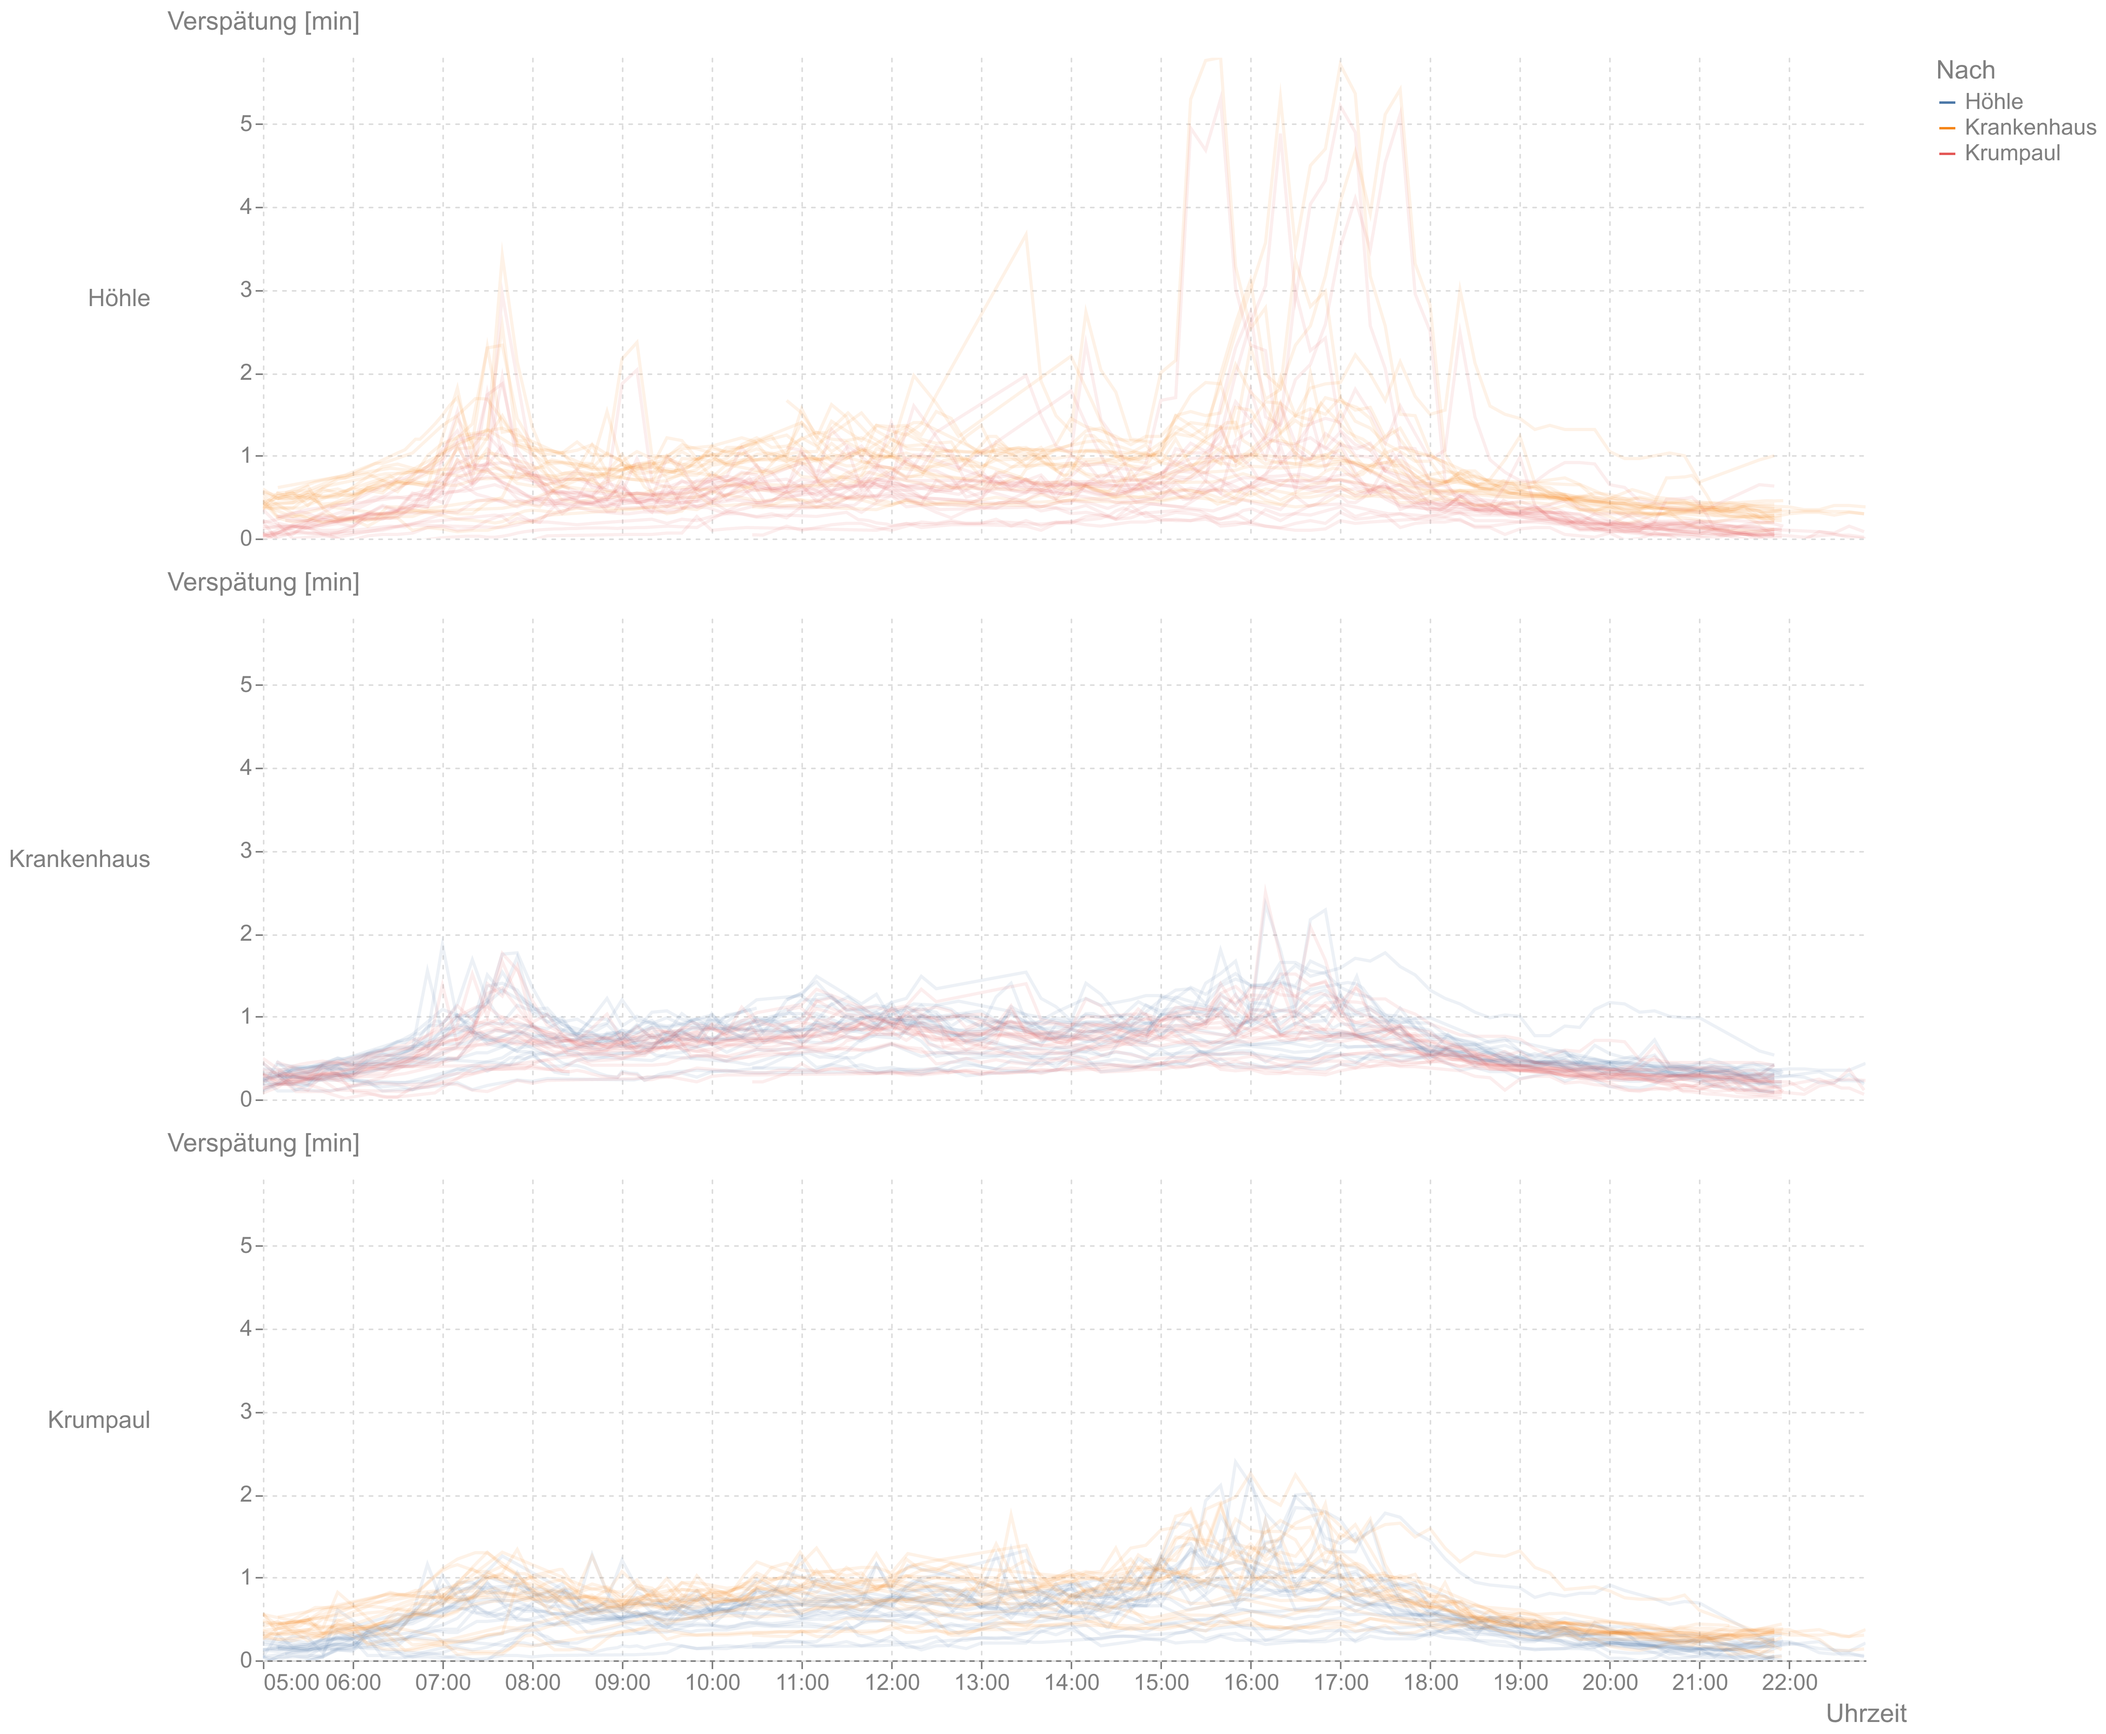
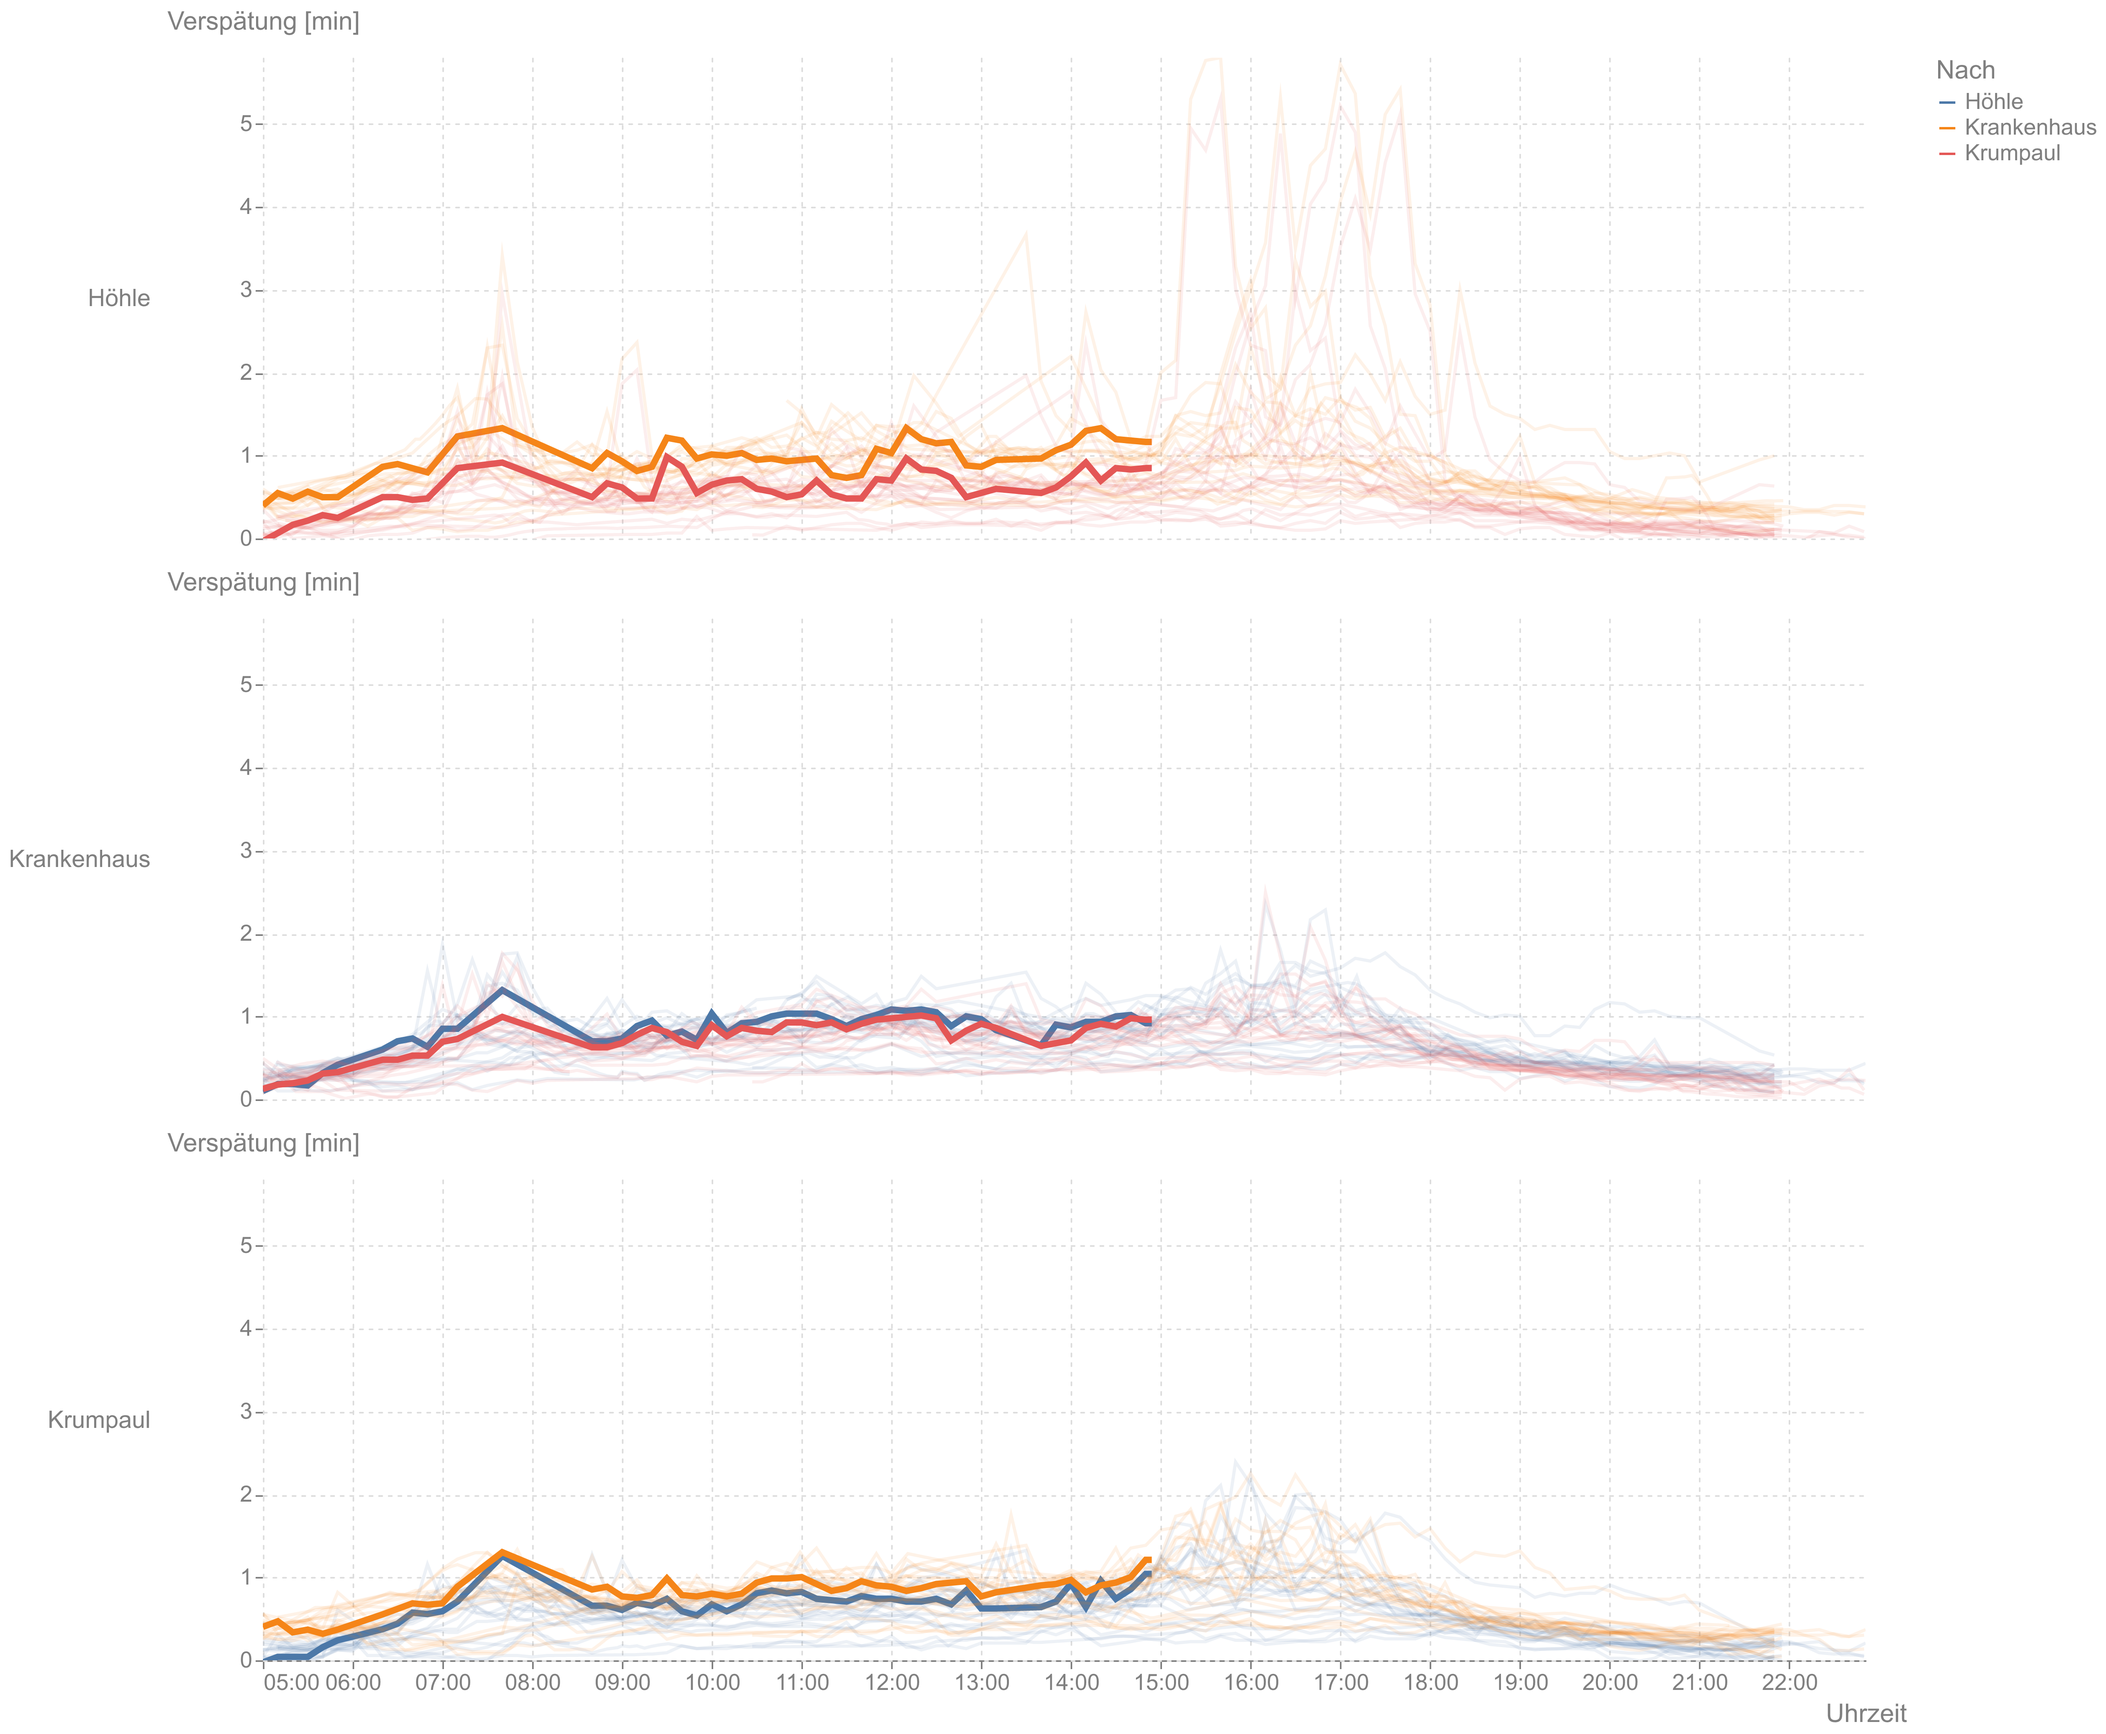
Adding data at date Thu Jan 18 14:56:55 CET 2024.

diff --git a/traffic_balve/create_image2.py b/traffic_balve/create_image2.py
@@ -48,7 +48,7 @@ def create_image() -> None:
             .with_columns(
                 today=pl.col("datetime").dt.date() == datetime.now().date(),
             )
-            .select("datetime", "delay_m", "to", "from")
+            .select("today", "datetime", "delay_m", "to", "from")
         )
         .mark_line(point=False, clip=True)
         .encode(
